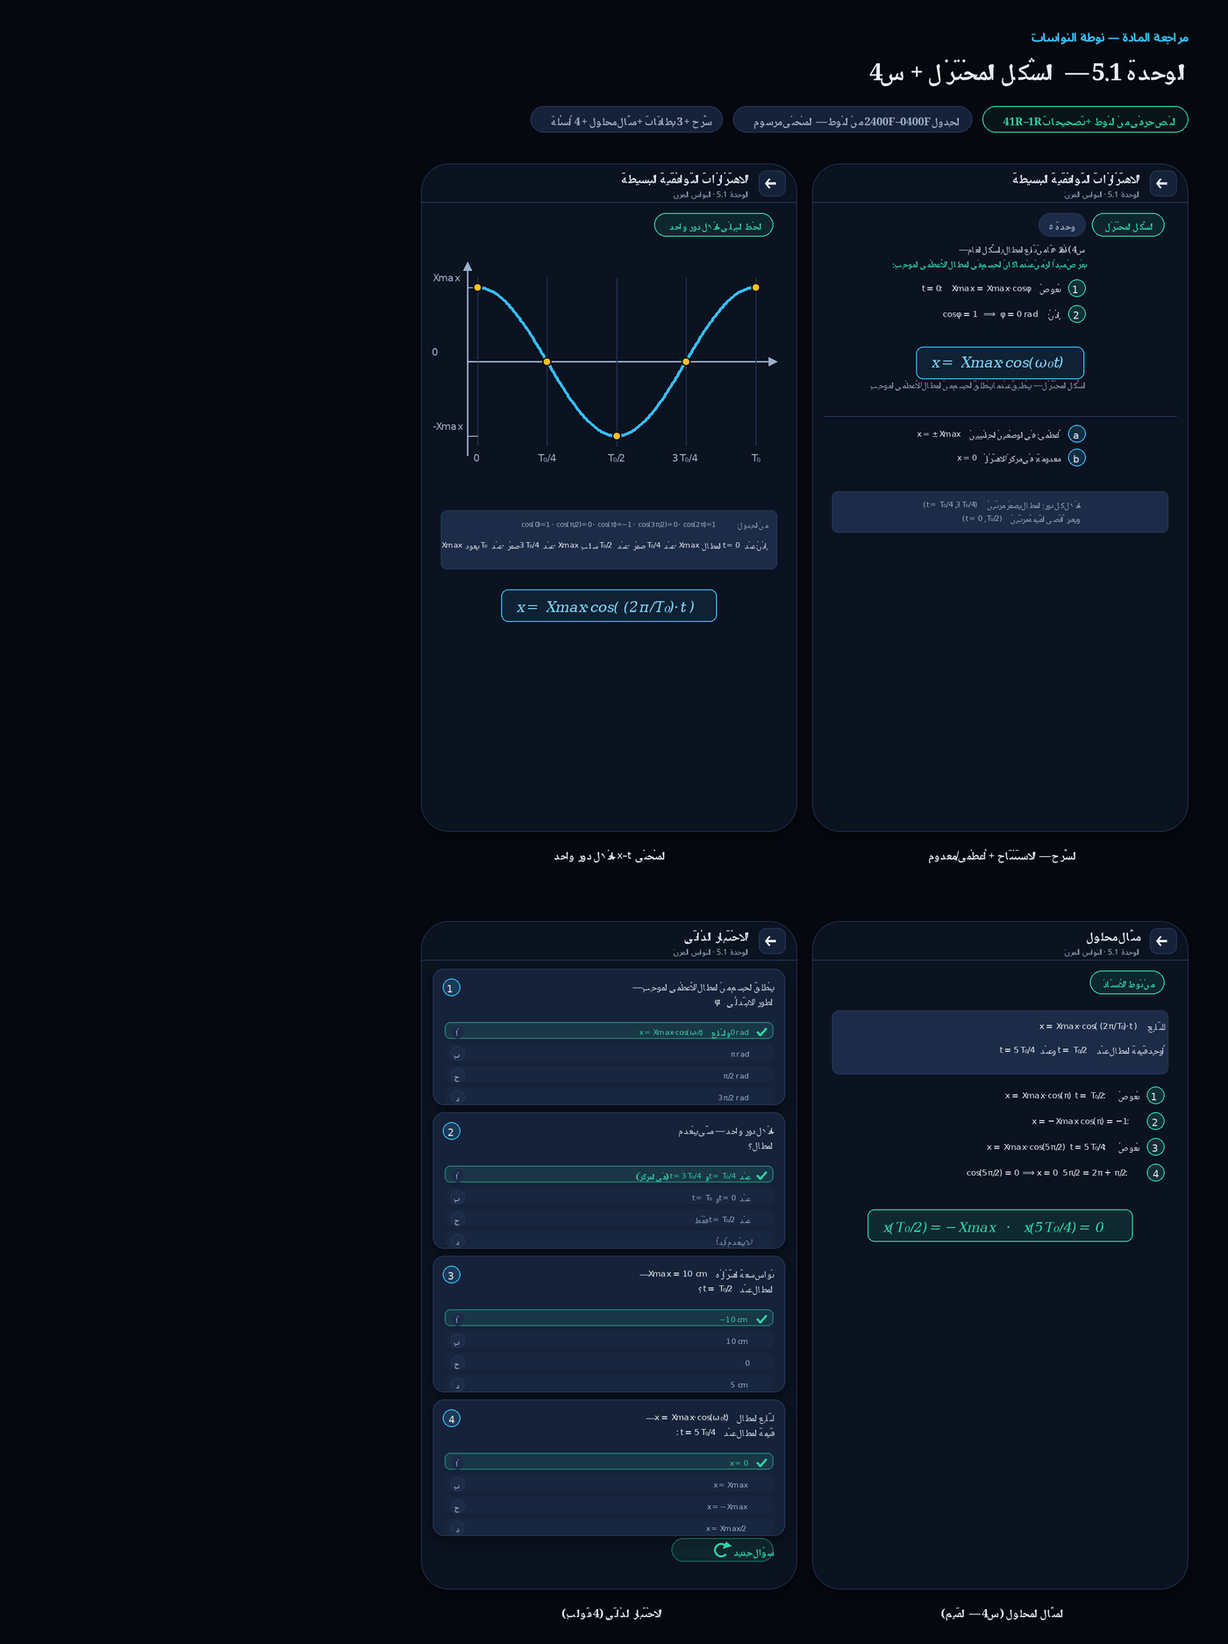
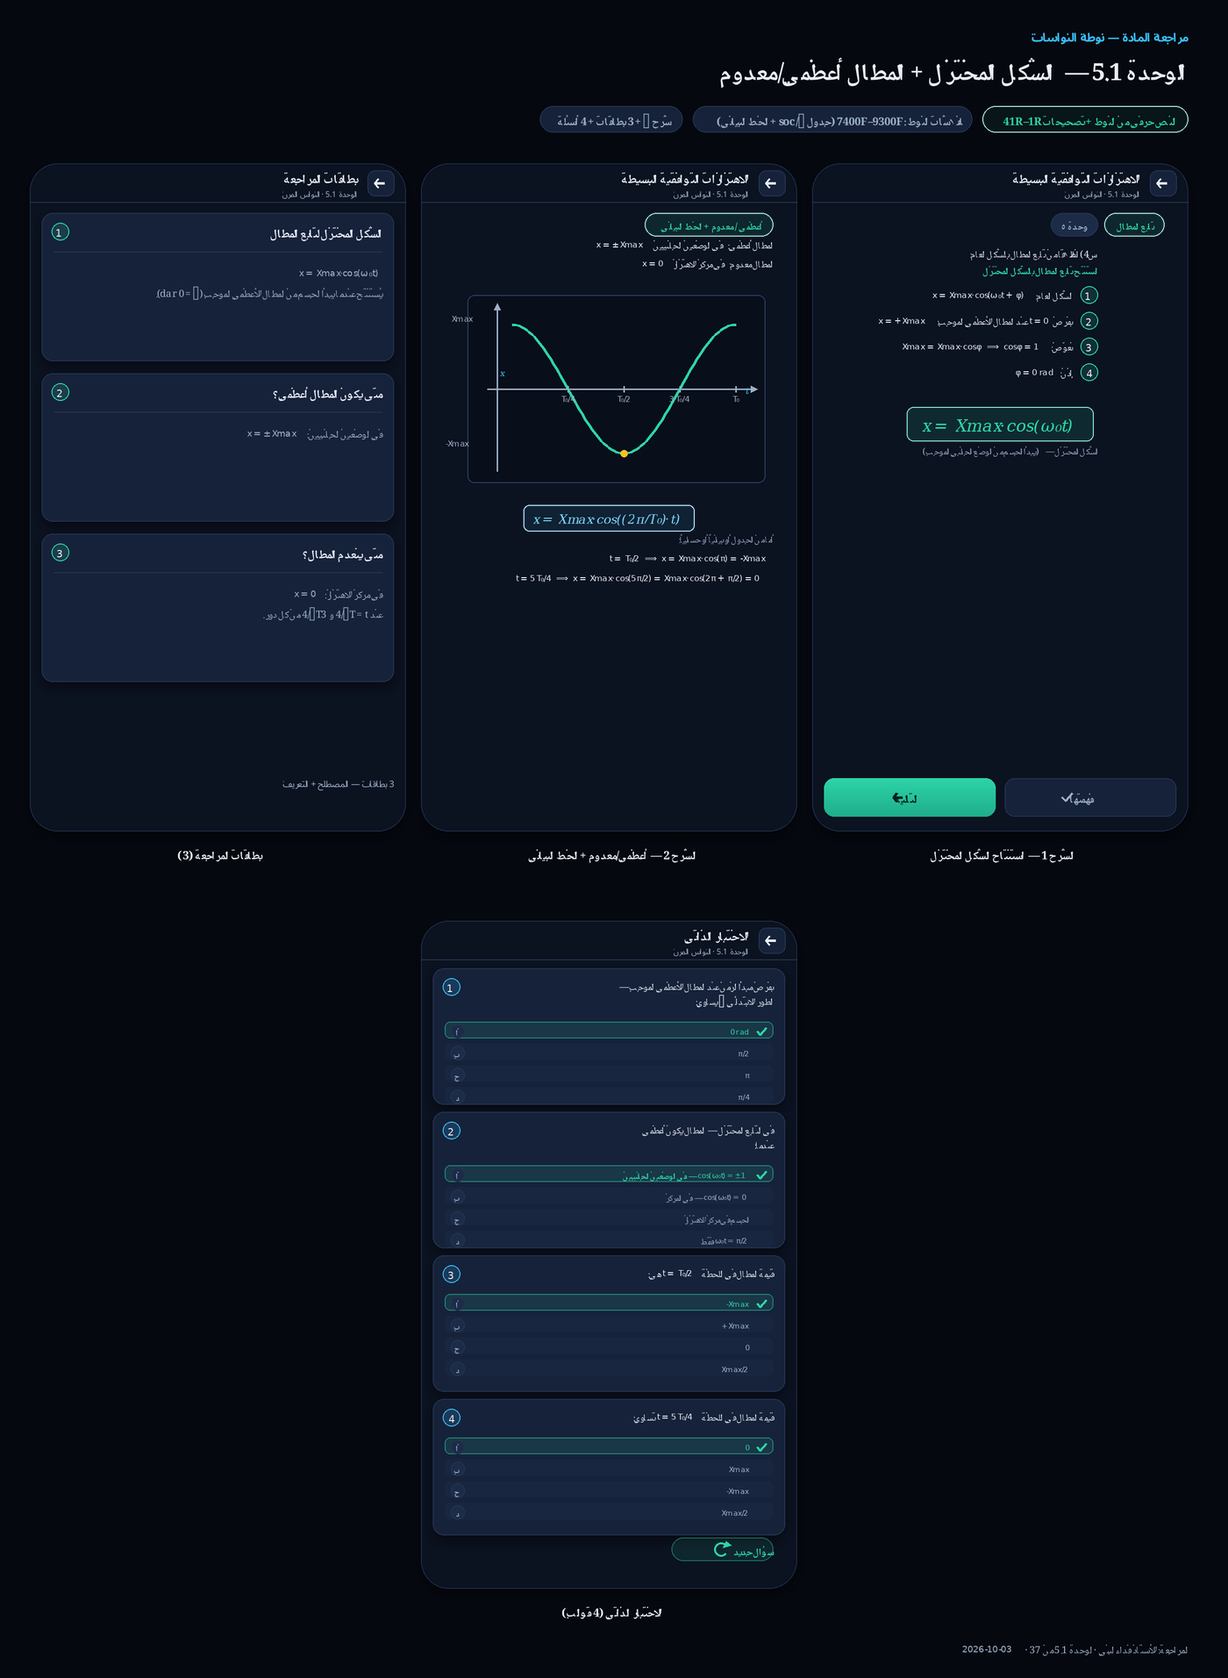
مراجعة المادة: الوحدة 1.5 (الشكل المختزل + المطال أعظمي/معدوم + س4) — 4 شاشات + unit-005.json

diff --git a/ui-mockup/render_unit_1_5_review.py b/ui-mockup/render_unit_1_5_review.py
@@ -1,5 +1,5 @@
 # -*- coding: utf-8 -*-
-"""مراجعة المادة — الوحدة 1.5: الشكل المختزل + س4 (المنحنى + القيم)"""
+"""مراجعة المادة — الوحدة 1.5: الشكل المختزل + المطال أعظمي/معدوم + س4"""
 import os, sys, math
 sys.path.insert(0, os.path.dirname(os.path.abspath(__file__)))
 from PIL import Image, ImageDraw
@@ -9,7 +9,7 @@ from rtl_text import (draw_rtl, draw_ltr, text_width,
                       NASKH, SANS, DEJAVU, DEJAVU_B, DEJAVU_SI)
 
 W = 2480
-H = 3320
+H = 3390
 cv = ReviewCanvas(W, H)
 d = cv.d
 img = cv.img
@@ -17,12 +17,12 @@ XR = 2400
 
 # ============================ الرأس ============================
 draw_rtl(img, XR, 84, "مراجعة المادة — نوطة النواسات", 24, BRAND2, path=SANS, bold=True)
-cv.draw_flow(XR, 162, [("الوحدة 1.5 — ", "ar"), ("الشكل المختزل + س4", "ar")], 48, TXT, bold=True)
+cv.draw_flow(XR, 162, [("الوحدة 1.5 — ", "ar"), ("الشكل المختزل + المطال أعظمي/معدوم", "ar")], 48, TXT, bold=True)
 pr = XR
 for txt, tc, bc, bg in [
     ("النص حرفي من النوط + تصحيحات R1–R14", BRAND, (45, 212, 167, 100), (45, 212, 167, 16)),
-    ("الجدول F0040–F0042 من النوط — المنحنى مرسوم", TXT2, LINE, CARD),
-    ("شرح + 3 بطاقات + مثال محلول + 4 أسئلة", TXT2, LINE, CARD),
+    ("فلاشات النوط: F0039–F0047 (جدول θ/cos + الخط البياني)", TXT2, LINE, CARD),
+    ("شرح ② + 3 بطاقات + 4 أسئلة", TXT2, LINE, CARD),
 ]:
     tw = text_width(txt, NASKH, 22, True)
     w = tw + 48
@@ -33,147 +33,138 @@ for txt, tc, bc, bg in [
 
 # ============================ الصف الأول ============================
 SY, PW, PH = 330, 760, 1350
-XR1 = XR - PW
-XL1 = XR - 2 * PW - 30
+X1, X2, X3 = XR - PW, XR - 2 * PW - 30, XR - 3 * PW - 60
 SY2 = 1860
 SUB = "الوحدة 1.5 · النواس المرن"
 
-# ---------- S1: الشرح (الاستنتاج + أعظمى/معدوم) ----------
-pl, pr = cv.phone(XR1, SY, PW, PH, "الاهتزازات التوافقية البسيطة", SUB)
+# ---------- S1: الشرح ① (استنتاج الشكل المختزل) ----------
+pl, pr = cv.phone(X1, SY, PW, PH, "الاهتزازات التوافقية البسيطة", SUB)
 cr = pr - 24
-cr = cv.pill_r(cr, SY + 100, "الشكل المختزل", 19, BRAND, (45, 212, 167, 100), (45, 212, 167, 26)) - 12
+cr = cv.pill_r(cr, SY + 100, "تابع المطال", 19, BRAND, (45, 212, 167, 100), (45, 212, 167, 26)) - 12
 cv.pill_r(cr, SY + 100, "وحدة ٥", 19, TXT2, LINE, CARD2)
-yy = SY + 180
-cv.draw_flow(cr, yy, [("س4) انطلاقا من تابع المطال بالشكل العام — ", "ar")], 18, TXT)
-cv.draw_flow(cr, yy + 30, [("بفرض مبدأ الزمن عندما كان الجسم في المطال الأعظمي الموجب:", "ar")], 18, BRAND, bold=True)
-yy += 80
+yy = SY + 190
+draw_rtl(img, cr, yy, "س4) انطلاقا من تابع المطال بالشكل العام:", 19, TXT); yy += 34
+draw_rtl(img, cr, yy, "استنتج تابع المطال بالشكل المختزل", 19, BRAND, bold=True); yy += 50
 steps = [
-    [("نعوض ", "ar"), ("t = 0:   Xmax = Xmax·cosφ", "la")],
-    [("إذن:  ", "ar"), ("cosφ = 1  ⟹  φ = 0 rad", "la")],
+    [("الشكل العام:  ", "ar"), ("x = Xmax·cos(ω₀t + φ)", "la")],
+    [("بفرض ", "ar"), ("t = 0", "la"), (" عند المطال الأعظمي الموجب:  ", "ar"), ("x = +Xmax", "la")],
+    [("نعوّض:  ", "ar"), ("Xmax = Xmax·cosφ  ⟹  cosφ = 1", "la")],
+    [("إذن:  ", "ar"), ("φ = 0 rad", "la")],
 ]
 for i, segs in enumerate(steps):
     cv.number_badge(cr - 36, yy - 26, i + 1, BRAND)
     cv.draw_flow(cr - 52, yy, segs, 19, TXT)
     yy += 52
+yy += 10
 big = "x = Xmax·cos(ω₀t)"
-bw = text_width(big, DEJAVU_SI, 30) + 64
+bw = text_width(big, DEJAVU_SI, 34) + 64
 pxc = (pl + pr) // 2
-cv.alpha_rect(pxc - bw // 2, yy + 6, bw, 66, (56, 189, 248, 22), radius=14)
-d.rounded_rectangle([pxc - bw // 2, yy + 6, pxc + bw // 2 - 1, yy + 71], radius=14, outline=(56, 189, 248, 90), width=2)
-draw_ltr(img, pxc - bw // 2 + 32, yy + 48, big, 30, MATHC, path=DEJAVU_SI, slant=0.22)
-yy += 90
-draw_rtl(img, cr, yy, "الشكل المختزل — ينطبق عندما ينطلق الجسم من المطال الأعظمي الموجب", 18, TXT2)
-yy += 56
-d.line([(pl, yy), (pr, yy)], fill=_c4(LINE), width=2)
-yy += 44
-cv.number_badge(cr - 36, yy - 26, "a", BRAND2)
-cv.draw_flow(cr - 52, yy, [("أعظمى: ", "ar"), ("في الوضعين الجانبيين ", "ar"), ("x = ±Xmax", "la")], 18, TXT); yy += 48
-cv.number_badge(cr - 36, yy - 26, "b", BRAND2)
-cv.draw_flow(cr - 52, yy, [("معدومة: ", "ar"), ("في مركز الاهتزاز ", "ar"), ("x = 0", "la")], 18, TXT); yy += 60
-cv.a_rounded(pl + 16, yy, pr - 16, yy + 84, 12, fill=CARD2, outline=LINE)
-cv.draw_flow(cr - 12, yy + 34, [("خلال كل دور: المطال يصفر مرتين ", "ar"), ("3T₀/4)", "la"), ("،", "ar"), ("(t = T₀/4", "la")], 17, TXT2)
-cv.draw_flow(cr - 12, yy + 62, [("ويعبر أقصى القيمة مرتين ", "ar"), ("T₀/2)", "la"), ("،", "ar"), ("(t = 0", "la")], 17, TXT2)
+cv.alpha_rect(pxc - bw // 2, yy, bw, 70, (45, 212, 167, 30), radius=14)
+d.rounded_rectangle([pxc - bw // 2, yy, pxc + bw // 2 - 1, yy + 69], radius=14, outline=(45, 212, 167, 140), width=2)
+draw_ltr(img, pxc - bw // 2 + 32, yy + 50, big, 34, BRAND, path=DEJAVU_SI, slant=0.22)
+yy += 96
+cv.draw_flow(cr, yy, [("الشكل المختزل — ", "ar"), ("(يبدأ الجسم من الوضع الجانبي الموجب)", "ar")], 18, TXT2)
+cv.bottom_bar(X1, SY + PH - 108, PW)
 
-# ---------- S2: المنحنى x–t + المعادلة ----------
-pl, pr = cv.phone(XL1, SY, PW, PH, "الاهتزازات التوافقية البسيطة", SUB)
+# ---------- S2: الشرح ② (أعظمي/معدوم + الخط البياني) ----------
+pl, pr = cv.phone(X2, SY, PW, PH, "الاهتزازات التوافقية البسيطة", SUB)
 cr = pr - 24
-cv.pill_r(cr, SY + 100, "الخط البياني خلال دور واحد", 19, BRAND, (45, 212, 167, 100), (45, 212, 167, 26))
-# منطقة الرسم
-gx0, gx1 = pl + 90, pr - 60
-gy_mid = SY + 400
-amp = 150
-d.line([(gx0 - 20, gy_mid), (gx1 + 30, gy_mid)], fill=_c4(TXT2), width=3)
-d.polygon([(gx1 + 44, gy_mid), (gx1 + 26, gy_mid - 9), (gx1 + 26, gy_mid + 9)], fill=_c4(TXT2))
-d.line([(gx0 - 20, gy_mid + amp + 40), (gx0 - 20, gy_mid - amp - 40)], fill=_c4(TXT2), width=3)
-d.polygon([(gx0 - 20, gy_mid - amp - 52), (gx0 - 29, gy_mid - amp - 34), (gx0 - 11, gy_mid - amp - 34)], fill=_c4(TXT2))
-# الشبكة العمودية + التسميات
-marks = [(0.0, "0"), (0.25, "T₀/4"), (0.5, "T₀/2"), (0.75, "3T₀/4"), (1.0, "T₀")]
-for frac, lab in marks:
-    xx = gx0 + int((gx1 - gx0) * frac)
-    d.line([(xx, gy_mid - amp - 20), (xx, gy_mid + amp + 20)], fill=_c4(LINE), width=2)
-    lw_ = text_width(lab, DEJAVU, 20)
-    draw_ltr(img, xx - lw_ // 2, gy_mid + amp + 52, lab, 20, TXT2, path=DEJAVU)
-# تسميات المحور الرأسي
-for yyv, lab in [(gy_mid - amp, "Xmax"), (gy_mid, "0"), (gy_mid + amp, "-Xmax")]:
-    draw_ltr(img, gx0 - 90, yyv - 12, lab, 20, TXT2, path=DEJAVU)
-    d.line([(gx0 - 20, yyv), (gx0, yyv)], fill=_c4(TXT2), width=2)
-# المنحنى: x = Xmax·cos(2π t/T0)
+cv.pill_r(cr, SY + 100, "أعظمي / معدوم + الخط البياني", 19, BRAND, (45, 212, 167, 100), (45, 212, 167, 26))
+yy = SY + 172
+cv.draw_flow(cr, yy, [("المطال أعظمي: ", "ar"), ("في الوضعين الجانبيين  ", "ar"), ("x = ±Xmax", "la")], 19, TXT); yy += 38
+cv.draw_flow(cr, yy, [("المطال معدوم: ", "ar"), ("في مركز الاهتزاز  ", "ar"), ("x = 0", "la")], 19, TXT); yy += 56
+# الإطار
+gx0, gx1 = pl + 70, pr - 40
+gy0, gy1 = yy, yy + 380
+cv.a_rounded(gx0, gy0, gx1, gy1, 14, fill=(8, 14, 26), outline=(44, 63, 99))
+# المحاور
+cx_axis = gx0 + 60
+cy_mid = (gy0 + gy1) // 2
+amp = 130
+d.line([(cx_axis, gy0 + 24), (cx_axis, gy1 - 24)], fill=_c4(TXT2), width=3)          # محور x
+d.line([(cx_axis - 20, cy_mid), (gx1 - 24, cy_mid)], fill=_c4(TXT2), width=3)      # محور t
+d.polygon([(cx_axis, gy0 + 16), (cx_axis - 7, gy0 + 30), (cx_axis + 7, gy0 + 30)], fill=_c4(TXT2))
+d.polygon([(gx1 - 16, cy_mid), (gx1 - 30, cy_mid - 7), (gx1 - 30, cy_mid + 7)], fill=_c4(TXT2))
+# منحنى cos خلال دور
+t0x, t1x = cx_axis + 30, gx1 - 60
 pts = []
-N = 240
-for i in range(N + 1):
-    t = i / N
-    xx = gx0 + (gx1 - gx0) * t
-    yy_ = gy_mid - amp * math.cos(2 * math.pi * t)
-    pts.append((xx, yy_))
-d.line(pts, fill=_c4(BRAND2), width=6, joint="curve")
-# نقاط رئيسية
-for frac, val in [(0.0, -1), (0.25, 0), (0.5, 1), (0.75, 0), (1.0, -1)]:
-    xx = gx0 + int((gx1 - gx0) * frac)
-    yy_ = gy_mid + amp * val
-    d.ellipse([xx - 9, yy_ - 9, xx + 9, yy_ + 9], fill=_c4(GOLD), outline=_c4(BG2), width=3)
-yy = SY + 700
-cv.a_rounded(pl + 16, yy, pr - 16, yy + 120, 12, fill=CARD2, outline=LINE)
-cv.draw_flow(cr - 12, yy + 36, [("من الجدول: ", "ar"), ("cos(0)=1 · cos(π/2)=0 · cos(π)=−1 · cos(3π/2)=0 · cos(2π)=1", "la")], 16, TXT2)
-cv.draw_flow(cr - 12, yy + 78, [
-    ("إذن: عند ", "ar"), ("t = 0", "la"), (" المطال ", "ar"), ("Xmax", "la"),
-    (" · عند ", "ar"), ("T₀/4", "la"), (" صفر · عند ", "ar"), ("T₀/2", "la"),
-    (" سالب ", "ar"), ("Xmax", "la"), (" · عند ", "ar"), ("3T₀/4", "la"),
-    (" صفر · عند ", "ar"), ("T₀", "la"), (" يعود ", "ar"), ("Xmax", "la"),
-], 17, TXT)
-yy += 160
-big2 = "x = Xmax·cos( (2π/T₀)·t )"
-bw2 = text_width(big2, DEJAVU_SI, 30) + 64
+for i in range(121):
+    tt = i / 120.0
+    tx = t0x + (t1x - t0x) * tt
+    ty = cy_mid - amp * math.cos(2 * math.pi * tt)
+    pts.append((tx, ty))
+d.line(pts, fill=_c4(BRAND), width=5, joint="curve")
+# دوالب t
+for f, lab in [(0.25, "T₀/4"), (0.5, "T₀/2"), (0.75, "3T₀/4"), (1.0, "T₀")]:
+    tx = t0x + (t1x - t0x) * f
+    d.line([(tx, cy_mid - 6), (tx, cy_mid + 6)], fill=_c4(TXT2), width=3)
+    lw = text_width(lab, DEJAVU, 16)
+    draw_ltr(img, int(tx - lw // 2), cy_mid + 26, lab, 16, TXT2, path=DEJAVU)
+# تسميات المحور الرأسي
+draw_ltr(img, cx_axis - 92, cy_mid - amp - 6, "Xmax", 16, TXT2, path=DEJAVU)
+draw_ltr(img, cx_axis - 104, cy_mid + amp - 14, "-Xmax", 16, TXT2, path=DEJAVU)
+draw_ltr(img, t0x - 24, cy_mid - 26, "x", 18, BRAND2, path=DEJAVU_SI, slant=0.22)
+draw_ltr(img, gx1 - 40, cy_mid + 10, "t", 18, BRAND2, path=DEJAVU_SI, slant=0.22)
+# نقطة T₀/2 (أدنى)
+txh = t0x + (t1x - t0x) * 0.5
+d.ellipse([txh - 7, cy_mid + amp - 7, txh + 7, cy_mid + amp + 7], fill=_c4(GOLD))
+yy = gy1 + 44
+big = "x = Xmax·cos((2π/T₀)·t)"
+bw = text_width(big, DEJAVU_SI, 26) + 40
 pxc = (pl + pr) // 2
-cv.alpha_rect(pxc - bw2 // 2, yy, bw2, 66, (56, 189, 248, 22), radius=14)
-d.rounded_rectangle([pxc - bw2 // 2, yy, pxc + bw2 // 2 - 1, yy + 65], radius=14, outline=(56, 189, 248, 90), width=2)
-draw_ltr(img, pxc - bw2 // 2 + 32, yy + 46, big2, 30, MATHC, path=DEJAVU_SI, slant=0.22)
+cv.alpha_rect(pxc - bw // 2, yy, bw, 54, (56, 189, 248, 22), radius=12)
+d.rounded_rectangle([pxc - bw // 2, yy, pxc + bw // 2 - 1, yy + 53], radius=12, outline=(56, 189, 248, 90), width=2)
+draw_ltr(img, pxc - bw // 2 + 20, yy + 38, big, 26, MATHC, path=DEJAVU_SI, slant=0.22)
+yy += 76
+cv.draw_flow(cr, yy, [("أما من الجدول أو بيانياً أو حسابياً:", "ar")], 18, TXT2); yy += 40
+cv.draw_flow(cr, yy, [("t = T₀/2  ⟹  x = Xmax·cos(π) = -Xmax", "la")], 19, TXT); yy += 40
+cv.draw_flow(cr, yy, [("t = 5T₀/4  ⟹  x = Xmax·cos(5π/2) = Xmax·cos(2π + π/2) = 0", "la")], 19, TXT)
+
+# ---------- S3: البطاقات (3) ----------
+pl, pr = cv.phone(X3, SY, PW, PH, "بطاقات المراجعة", SUB)
+cards = [
+    ([("الشكل المختزل لتابع المطال", "ar")], 300, [
+        [("x = Xmax·cos(ω₀t)", "la")],
+        [("يُستنتج عندما يبدأ الجسم من المطال الأعظمي الموجب (φ = 0 rad).", "ar")],
+    ]),
+    ([("متى يكون المطال أعظمي؟", "ar")], 300, [
+        [("في الوضعين الجانبيين:  ", "ar"), ("x = ±Xmax", "la")],
+    ]),
+    ([("متى ينعدم المطال؟", "ar")], 300, [
+        [("في مركز الاهتزاز:  ", "ar"), ("x = 0", "la")],
+        [("عند t = T₀/4 و 3T₀/4 من كل دور.", "ar")],
+    ]),
+]
+by = SY + 100
+for i, (front, ch, lines) in enumerate(cards):
+    cv.card(pl, by, pr - pl, ch, 22, CARD, border=LINE)
+    cv.number_badge(pl + 20, by + 20, i + 1, BRAND)
+    cv.draw_flow(pr - 24, by + 50, front, 24, TXT, bold=True)
+    d.line([(pl + 24, by + 78), (pr - 24, by + 78)], fill=_c4(LINE), width=2)
+    yy = by + 130
+    for segs in lines:
+        cv.draw_flow(pr - 24, yy, segs, 20, TXT2)
+        yy += 40
+    by += ch + 24
+draw_rtl(img, pr, SY + PH - 90, "3 بطاقات — المصطلح + التعريف", 18, TXT2, path=SANS)
 
 # ============================ الصف الثاني ============================
-# ---------- S3: المثال المحلول ----------
-pl, pr = cv.phone(XR1, SY2, PW, PH, "مثال محلول", SUB)
-cr = pr - 24
-cv.pill_r(cr, SY2 + 100, "من نوط الأستاذ", 19, BRAND, (45, 212, 167, 100), (45, 212, 167, 26))
-yy = SY2 + 180
-cv.a_rounded(pl + 16, yy, pr - 16, yy + 130, 14, fill=CARD2, outline=LINE)
-cv.draw_flow(cr, yy + 40, [("للتابع: ", "ar"), ("x = Xmax·cos( (2π/T₀)·t )", "la")], 19, TXT)
-cv.draw_flow(cr, yy + 88, [("أوجد قيمة المطال عند ", "ar"), ("t = T₀/2", "la"), (" وعند ", "ar"), ("t = 5T₀/4", "la")], 19, TXT)
-yy += 180
-steps = [
-    [("نعوض ", "ar"), ("t = T₀/2:  ", "la"), ("x = Xmax·cos(π)", "la")],
-    [("cos(π) = −1:  ", "la"), ("x = −Xmax", "la")],
-    [("نعوض ", "ar"), ("t = 5T₀/4:  ", "la"), ("x = Xmax·cos(5π/2)", "la")],
-    [("5π/2 = 2π + π/2:  ", "la"), ("cos(5π/2) = 0 ⟹ x = 0", "la")],
-]
-for i, segs in enumerate(steps):
-    cv.number_badge(cr - 36, yy - 26, i + 1, BRAND)
-    cv.draw_flow(cr - 52, yy, segs, 19, TXT)
-    yy += 52
-yy += 14
-ans = "x(T₀/2) = −Xmax   ·   x(5T₀/4) = 0"
-bw3 = text_width(ans, DEJAVU_SI, 28) + 64
-pxc = (pl + pr) // 2
-cv.alpha_rect(pxc - bw3 // 2, yy, bw3, 66, (45, 212, 167, 30), radius=14)
-d.rounded_rectangle([pxc - bw3 // 2, yy, pxc + bw3 // 2 - 1, yy + 65], radius=14, outline=(45, 212, 167, 140), width=2)
-draw_ltr(img, pxc - bw3 // 2 + 32, yy + 46, ans, 28, BRAND, path=DEJAVU_SI, slant=0.22)
-
 # ---------- S4: الاختبار الذاتي (4) ----------
-pl, pr = cv.phone(XL1, SY2, PW, PH, "الاختبار الذاتي", SUB)
+pl, pr = cv.phone(X2, SY2, PW, PH, "الاختبار الذاتي", SUB)
 qs = [
-    ([ [("ينطلق الجسم من المطال الأعظمي الموجب —", "ar")],
-       [("الطور الابتدائي ", "ar"), ("φ:", "la")] ],
-     [[("0 rad", "la"), ("والتابع ", "ar"), ("x = Xmax·cos(ω₀t)", "la")], [("π rad", "la")],
-      [("π/2 rad", "la")], [("3π/2 rad", "la")]]),
-    ([ [("خلال دور واحد — متى ينعدم", "ar")],
-       [("المطال؟", "ar")] ],
-     [[("عند ", "ar"), ("t = T₀/4", "la"), ("و ", "ar"), ("t = 3T₀/4", "la"), (" (في المركز)", "ar")],
-      [("عند ", "ar"), ("t = 0", "la"), ("و ", "ar"), ("t = T₀", "la")], [("عند ", "ar"), ("t = T₀/2", "la"), (" فقط", "ar")],
-      [("لا ينعدم أبداً", "ar")]]),
-    ([ [("نواس سعة اهتزازه ", "ar"), ("Xmax = 10 cm", "la"), (" —", "ar")],
-       [("المطال عند ", "ar"), ("t = T₀/2", "la"), ("؟", "ar")] ],
-     [[("−10 cm", "la")], [("10 cm", "la")], [("0", "la")], [("5 cm", "la")]]),
-    ([ [("لتابع المطال ", "ar"), ("x = Xmax·cos(ω₀t)", "la"), (" —", "ar")],
-       [("قيمة المطال عند ", "ar"), ("t = 5T₀/4", "la"), (":", "la")] ],
-     [[("x = 0", "la")], [("x = Xmax", "la")], [("x = −Xmax", "la")], [("x = Xmax/2", "la")]]),
+    ([ [("بفرض مبدأ الزمن عند المطال الأعظمي الموجب —", "ar")],
+       [("الطور الابتدائي φ يساوي:", "ar")] ],
+     [[("0 rad", "la")], [("π/2", "la")], [("π", "la")], [("π/4", "la")]]),
+    ([ [("في التابع المختزل — المطال يكون أعظمي", "ar")],
+       [("عندما:", "ar")] ],
+     [[("cos(ω₀t) = ±1", "la"), (" — في الوضعين الجانبيين", "ar")],
+      [("cos(ω₀t) = 0", "la"), (" — في المركز", "ar")],
+      [("الجسم في مركز الاهتزاز", "ar")],
+      [("ω₀t = π/2", "la"), (" فقط", "ar")]]),
+    ([ [("قيمة المطال في اللحظة ", "ar"), ("t = T₀/2", "la"), (" هي:", "ar")] ],
+     [[("-Xmax", "la")], [("+Xmax", "la")], [("0", "la")], [("Xmax/2", "la")]]),
+    ([ [("قيمة المطال في اللحظة ", "ar"), ("t = 5T₀/4", "la"), (" تساوي:", "ar")] ],
+     [[("0", "la")], [("Xmax", "la")], [("-Xmax", "la")], [("Xmax/2", "la")]]),
 ]
 by = SY2 + 96
 letters = ["أ", "ب", "ج", "د"]
@@ -208,19 +199,16 @@ draw_rtl(img, pr - 24, SY2 + PH - 68, "سؤال جديد", 20, BRAND, bold=True)
 
 # ============================ التسميات ============================
 row1 = [
-    ([("الشرح — الاستنتاج + أعظمى/معدوم", "ar")], XR1),
-    ([("المنحنى ", "ar"), ("x–t", "la"), (" خلال دور واحد", "ar")], XL1),
+    ([("الشرح 1 — استنتاج الشكل المختزل", "ar")], X1),
+    ([("الشرح 2 — أعظمي/معدوم + الخط البياني", "ar")], X2),
+    ([("بطاقات المراجعة (3)", "ar")], X3),
 ]
 for segs, x in row1:
     w = cv.flow_width(segs, 23, True)
     cv.draw_flow(x + PW // 2 + w // 2, SY + PH + 56, segs, 23, TXT, bold=True)
-row2 = [
-    ([("المثال المحلول (س4 — القيم)", "ar")], XR1),
-    ([("الاختبار الذاتي (4 قوالب)", "ar")], XL1),
-]
-for segs, x in row2:
-    w = cv.flow_width(segs, 23, True)
-    cv.draw_flow(x + PW // 2 + w // 2, SY2 + PH + 56, segs, 23, TXT, bold=True)
+segs = [("الاختبار الذاتي (4 قوالب)", "ar")]
+w = cv.flow_width(segs, 23, True)
+cv.draw_flow(X2 + PW // 2 + w // 2, SY2 + PH + 56, segs, 23, TXT, bold=True)
 cv.draw_flow(XR, SY2 + PH + 130, [
     ("المراجعة: الأستاذ فداء البني · الوحدة 1.5 من 73 · ", "ar"), ("2026-10-03", "la"),
 ], 20, TXT2)
